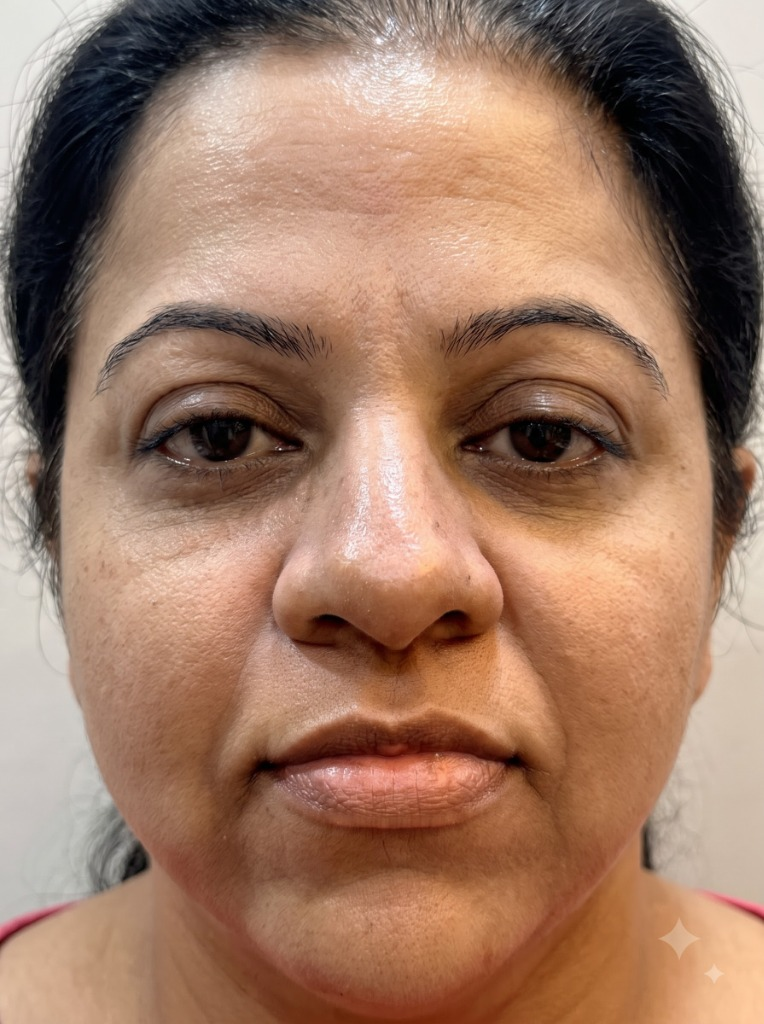
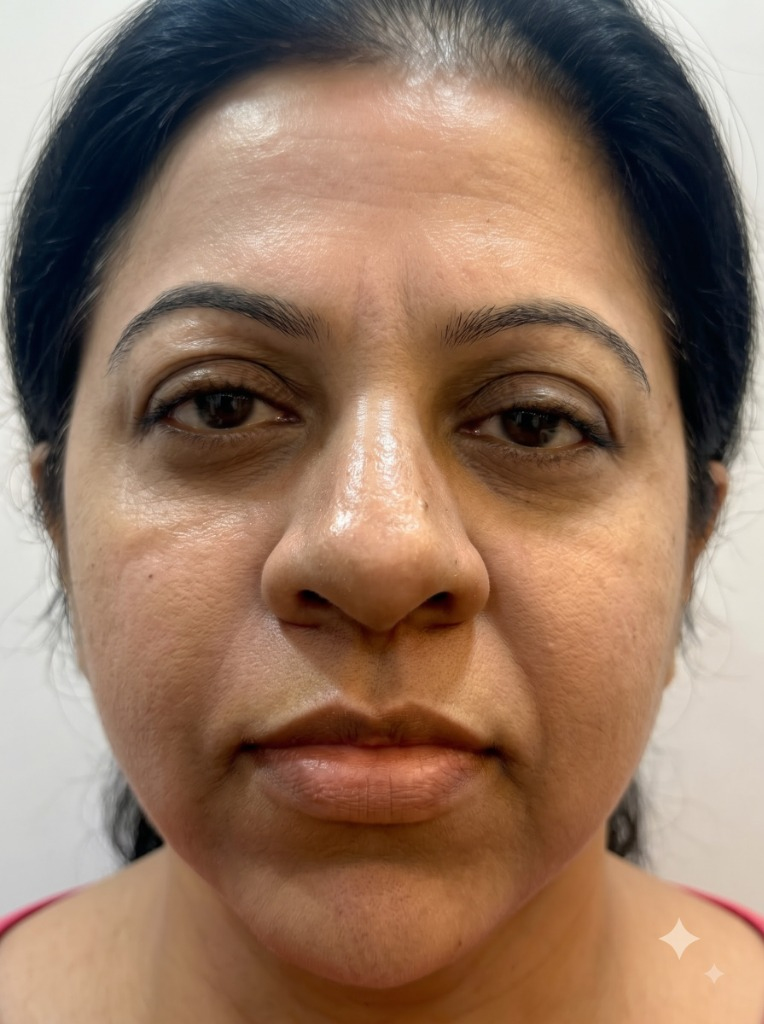
fix: use manually aligned before/after images for 1st section and remove CSS alignment

diff --git a/results.html b/results.html
@@ -84,10 +84,10 @@
     
     <div class="relative w-full aspect-[4/3] rounded-[24px] overflow-hidden group/slider">
       <!-- After Image -->
-      <img src="/src/assets/after_1.jpg" alt="After Treatment" class="absolute inset-0 w-full h-full object-cover" style="object-position: 50% 70%;" />
+      <img src="/src/assets/after_1.jpg" alt="After Treatment" class="absolute inset-0 w-full h-full object-cover" />
       
       <!-- Before Image Container (clipped) -->
-      <img src="/src/assets/before_1.jpg" alt="Before Treatment" class="absolute inset-0 w-full h-full object-cover [clip-path:polygon(0_0,var(--split,50%)_0,var(--split,50%)_100%,0_100%)]" id="ba-image-1" style="object-position: 50% 30%;" />
+      <img src="/src/assets/before_1.jpg" alt="Before Treatment" class="absolute inset-0 w-full h-full object-cover [clip-path:polygon(0_0,var(--split,50%)_0,var(--split,50%)_100%,0_100%)]" id="ba-image-1" />
 
       <!-- Range Input for dragging -->
       <input type="range" min="0" max="100" value="50" class="absolute inset-0 w-full h-full opacity-0 cursor-ew-resize z-20" oninput="document.getElementById('ba-image-1').style.setProperty('--split', this.value + '%'); document.getElementById('ba-handle-1').style.left = this.value + '%';" />
